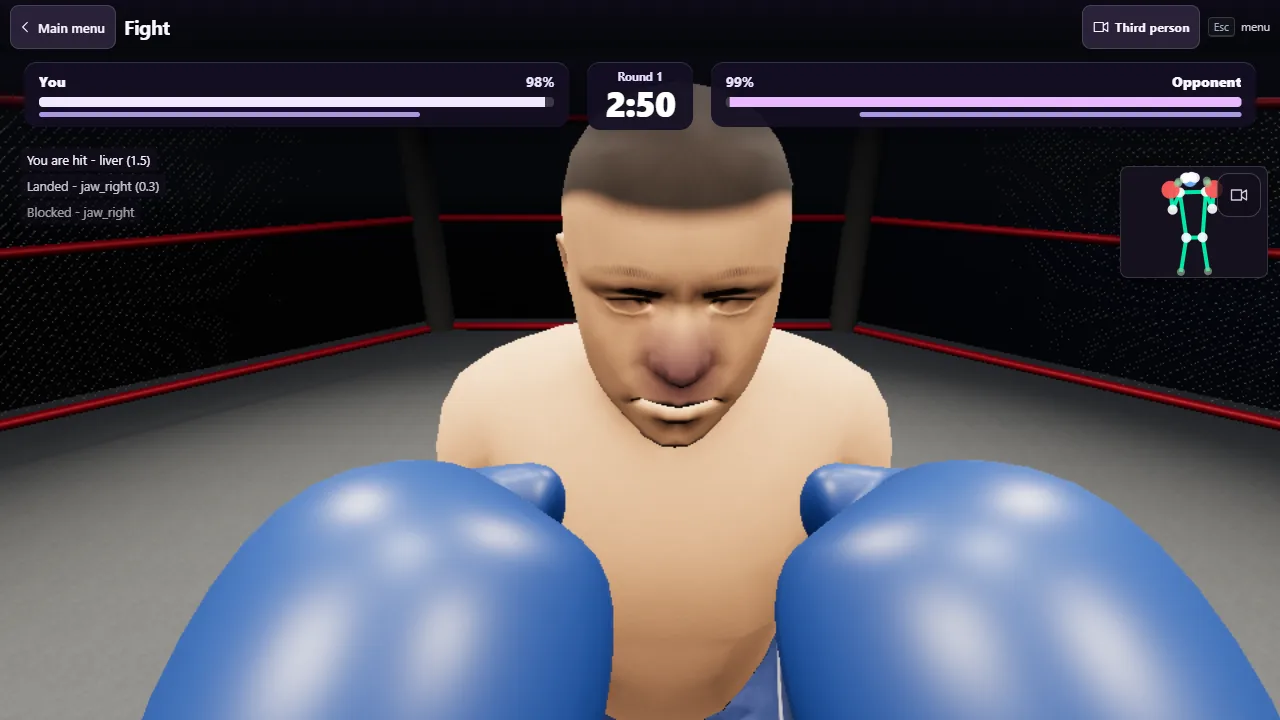
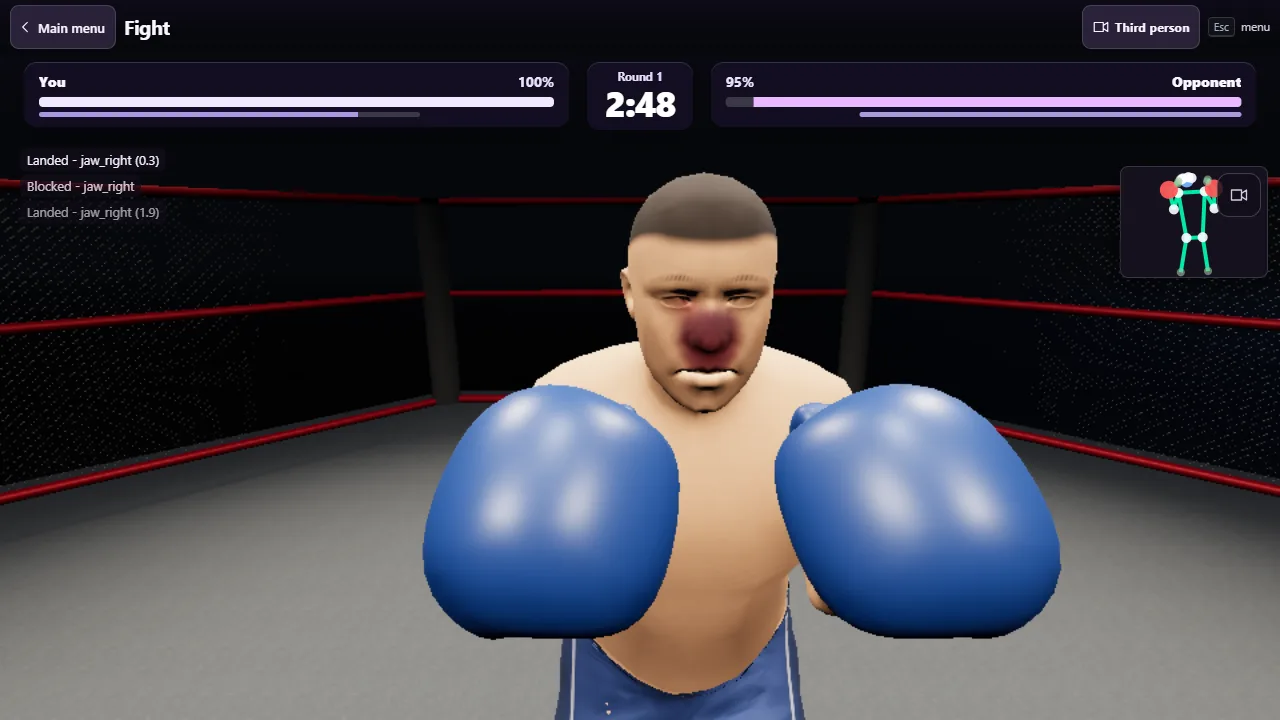
First person: the CPU stands off between exchanges
The locked first-person fight held the CPU at striking range for the whole
bout, its face about half a metre from the camera. It now holds the preferred
gap (about 0.96 m between bodies instead of 0.79 m) and steps in to striking
range for each combination, arriving before the first punch lands, then backs
out. Still on the centre line, still slipping and ducking. Screenshots
refreshed.

Claude-Session: https://claude.ai/code/session_0163PQUhvCtnBkK78La7MR7A

diff --git a/src/sim/cpuMovement.test.ts b/src/sim/cpuMovement.test.ts
@@ -475,24 +475,39 @@ describe("determinism", () => {
   });
 });
 
-describe("locked position (FPS Mode)", () => {
-  // The locked gap is the neutral one: both depth channels are held at 0.
+describe("locked position (first person)", () => {
   const atLockedGap = see({ range: FIGHT_GEOMETRY.neutralRange, opponentThrowing: true });
 
-  it("never steps in, backs off or circles", () => {
+  /** Steps a locked CPU with the range its own depth makes, as useFight does,
+   *  and records the range at every strike and while circling. */
+  function lockedBout(seed: number, seconds: number) {
+    const ai = new CpuOpponent("champion", seed);
+    ai.locked = true;
+    const dt = 1 / 60;
+    const atStrike: number[] = [];
+    const circling: number[] = [];
+    for (let t = 0; t < seconds; t += dt) {
+      const range = FIGHT_GEOMETRY.neutralRange - ai.stance.depth;
+      const intent = ai.update(dt, see({ range, opponentThrowing: true }));
+      expect(ai.footwork).toBe("hold");
+      // Sideways only as far as a slip takes the head.
+      expect(Math.abs(ai.stance.lateral)).toBeLessThanOrEqual(CPU_CONFIG.slipTravel + 1e-6);
+      if (intent.strike) atStrike.push(range);
+      if (ai.state === "circling") circling.push(range);
+    }
+    return { atStrike, circling };
+  }
+
+  it("stands at the preferred gap between exchanges", () => {
+    const { circling } = lockedBout(7, 30);
+    expect(Math.max(...circling)).toBeCloseTo(FIGHT_GEOMETRY.preferredRange, 2);
+  });
+
+  it("steps in to striking range for every punch", () => {
     for (const seed of [1, 7, 11, 23]) {
-      const ai = new CpuOpponent("champion", seed);
-      ai.locked = true;
-      const dt = 1 / 60;
-      let maxDepth = 0;
-      for (let t = 0; t < 30; t += dt) {
-        ai.update(dt, atLockedGap);
-        expect(ai.footwork).toBe("hold");
-        maxDepth = Math.max(maxDepth, Math.abs(ai.stance.depth));
-        // Sideways only as far as a slip takes the head.
-        expect(Math.abs(ai.stance.lateral)).toBeLessThanOrEqual(CPU_CONFIG.slipTravel + 1e-6);
-      }
-      expect(maxDepth).toBeLessThan(1e-6);
+      const { atStrike } = lockedBout(seed, 30);
+      expect(atStrike.length).toBeGreaterThan(3);
+      for (const r of atStrike) expect(r - FIGHT_GEOMETRY.strikingRange).toBeLessThan(0.05);
     }
   });
 

diff --git a/src/sim/cpuOpponent.ts b/src/sim/cpuOpponent.ts
@@ -5,6 +5,9 @@ import type { Evasion, GuardPosture } from "./fightState";
 import type { ImpactPoint } from "../perception/strikeGeometry";
 import { CPU_CONFIG, FIGHT_GEOMETRY } from "../config/tuning";
 
+/** Locked depth between exchanges: back from striking range to the preferred gap. */
+const LOCKED_STANDOFF = FIGHT_GEOMETRY.strikingRange - FIGHT_GEOMETRY.preferredRange;
+
 export type CpuState = "circling" | "telegraph" | "striking" | "recovering" | "hurt";
 
 /** What the feet are doing. Independent of what the hands are doing, on purpose. */
@@ -172,10 +175,9 @@ export class CpuOpponent {
   private evadeCooldown = 0;
 
   /**
-   * Locked position (FPS Mode). The feet stay planted at the neutral gap, on
-   * the centre line: no advancing, retreating or circling. Head movement -
-   * slips left and right, and the duck - still works, so the only ways the
-   * body moves are left, right and down.
+   * Locked position (first person). The feet stay on the centre line with no
+   * circling: they hold the preferred gap between exchanges and step in to
+   * striking range for a combination. Slips and the duck still work.
    */
   locked = false;
 
@@ -466,9 +468,8 @@ export class CpuOpponent {
     c.lateral = clamp(c.lateral, -CPU_CONFIG.lateralLimit, CPU_CONFIG.lateralLimit);
     c.depth = clamp(c.depth, -CPU_CONFIG.depthLimit, CPU_CONFIG.depthLimit);
     if (this.locked) {
-      // Feet planted on the centre line at the neutral gap.
       c.lateral = 0;
-      c.depth = 0;
+      c.depth = this.exchanging() ? 0 : LOCKED_STANDOFF;
     }
 
     // Where the other fighter's side of the gap is, in this fighter's frame.
@@ -501,6 +502,12 @@ export class CpuOpponent {
       this.shown.depth = Math.max(-CPU_CONFIG.depthLimit, ceiling);
       c.depth = Math.min(c.depth, this.shown.depth);
     }
+  }
+
+  /** Throwing a combination, from the wind-up of its first punch to the
+   *  recovery of its last. */
+  private exchanging(): boolean {
+    return this.state === "telegraph" || this.state === "striking" || this.state === "recovering";
   }
 
   private setGuard(g: GuardPosture): GuardPosture | undefined {

diff --git a/src/sim/useFight.ts b/src/sim/useFight.ts
@@ -110,8 +110,8 @@ export interface UseFightOptions {
   /** A downed player can get up early by holding their gloves up. CPU fights
    *  only, and fixed when the fight starts. */
   getUp?: boolean;
-  /** Holds both fighters at the neutral gap: slips and ducks only. CPU fights
-   *  only, and fixed when the fight starts. */
+  /** Keeps both fighters on one line: the player's steps are ignored and the
+   *  CPU steps in only to throw. CPU fights only, and fixed when the fight starts. */
   locked?: boolean;
 }
 

diff --git a/docs/GAMEPLAY.md b/docs/GAMEPLAY.md
@@ -38,7 +38,7 @@ slips, ducks, your guard and your footwork.
 | Guard | Hands up at the chin covers the head; hands at the ribs covers the body. A blocked punch does a fraction of the damage and costs the blocker stamina. |
 | Slip | Move your head and shoulders sideways. A slip beats a straight or rising punch, but not a hook, which curves around to where your head went. |
 | Duck | Drop your head. A duck gets under any head punch and does nothing about a body shot. |
-| Step | Step towards or away from the camera (third-person fights only; first person holds both fighters at range). |
+| Step | Step towards or away from the camera (third-person fights only; in first person the CPU sets the distance). |
 | Get up | When knocked down in a CPU fight, hold both gloves up at your face to rise early. |
 | Rematch | When a fight ends, raise both hands over your head and hold them there. |
 | Menu | Point your hand at a card and hold it still until the ring fills. |
@@ -60,8 +60,9 @@ Every on-screen control also works with a tap or a click.
 
 - **Rounds:** three rounds of three minutes.
 - **First person.** The default view. The camera is at your fighter's eyes and
-  your gloves are at the bottom of the screen. Both fighters hold the neutral
-  gap, so the fight is about timing, defence and the guard.
+  your gloves are at the bottom of the screen. The fighters stay on one line:
+  the CPU stands off at its preferred distance between exchanges and steps in
+  to throw, then back out, so the fight is about timing, defence and the guard.
 - **Third person.** Press `V` or turn it on in Settings. The camera sits behind
   your fighter and both fighters move: the CPU circles, steps in to throw and
   backs out again, and your real steps change the range.

diff --git a/docs/TECHNOLOGY.md b/docs/TECHNOLOGY.md
@@ -175,7 +175,10 @@ the measurements behind each decision.
   attack (circling, telegraph, striking, recovering, hurt), footwork and head
   movement. It manages range, telegraphs every punch (0.55, 0.38 or 0.26 s by
   difficulty), defends the side you have been attacking, and slips, ducks and
-  blocks as different moves. Its punch is resolved when the glove arrives
+  blocks as different moves. In first person its feet stay on the fight line:
+  it stands off at the preferred gap (about 0.96 m between bodies) and steps in
+  to striking range (0.79 m) for each combination, arriving before the first
+  punch lands. Its punch is resolved when the glove arrives
   (0.15 s after release), and the animation drives it with a shoulder turn, a
   lean and a dip into the legs on body shots.
 - **Lag compensation.** Every strike is judged against the defence that was up
